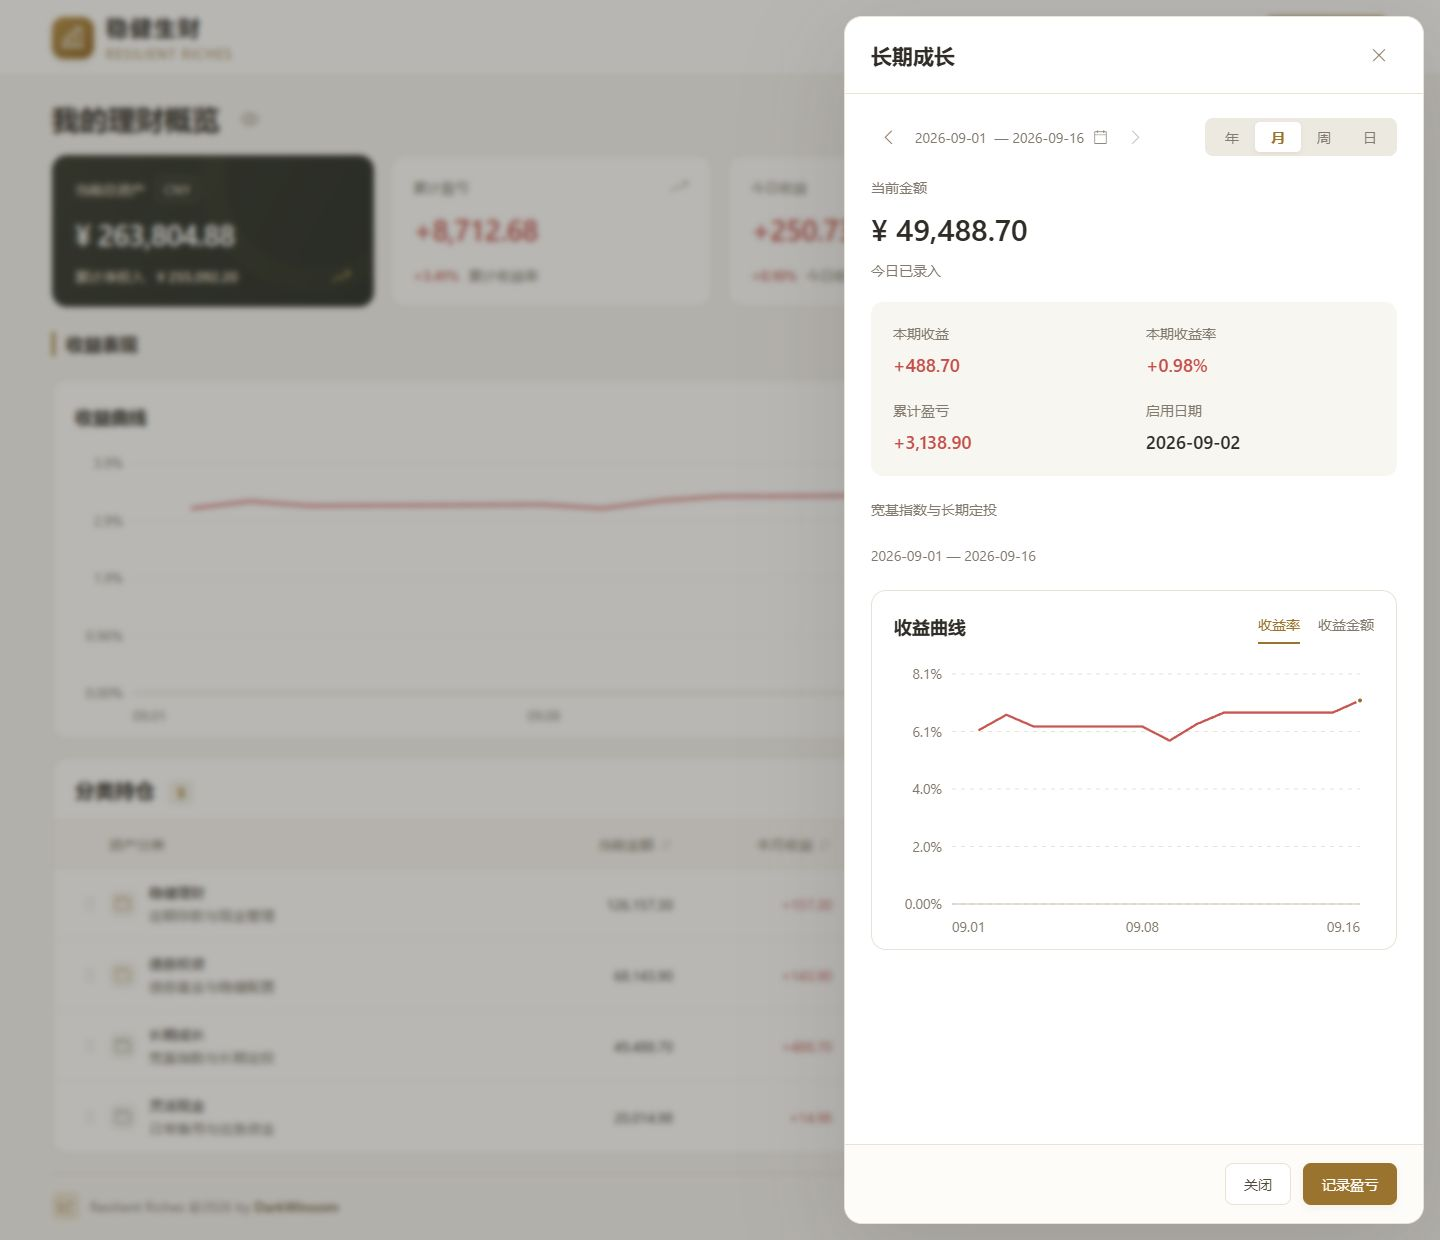
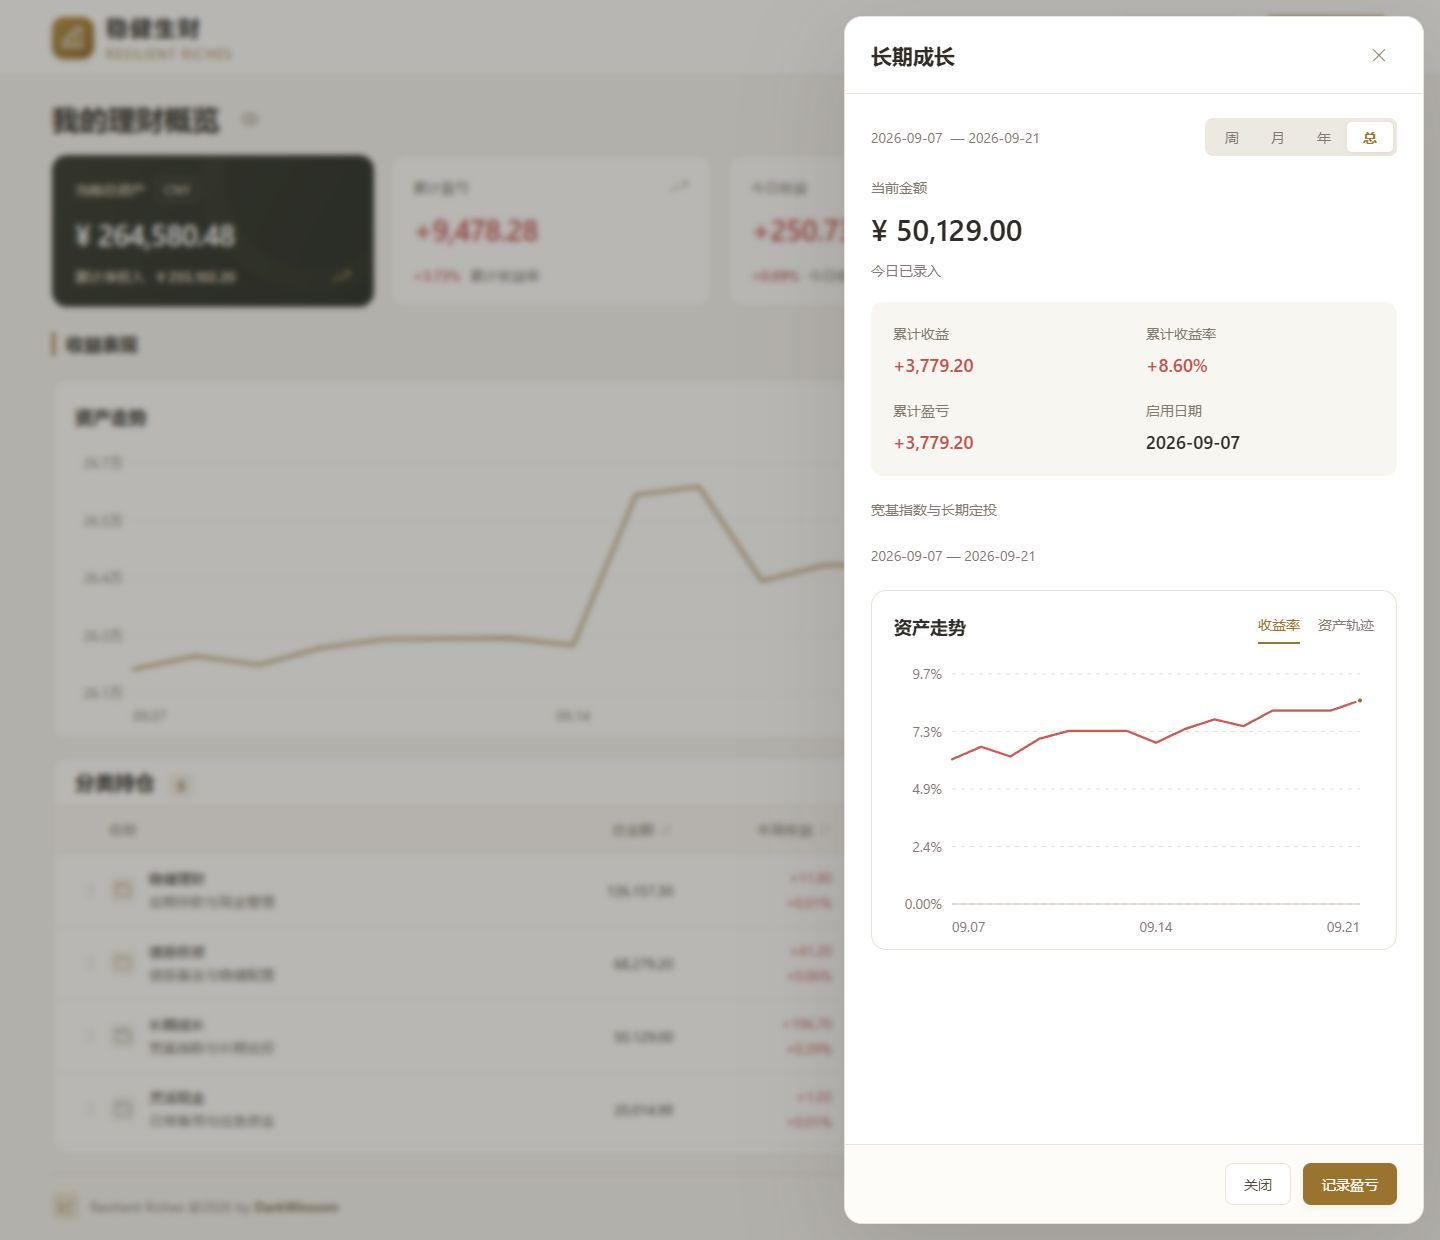
Refine recording flow and refresh v1.2 documentation

diff --git a/apps/web/src/composables/useEntryDraft.ts b/apps/web/src/composables/useEntryDraft.ts
@@ -18,7 +18,7 @@ export interface EntryDraft {
 export function useEntryDraft(
   today: string,
   initialId: string | null,
-  changed: (action: 'save' | 'delete') => void,
+  changed: (action: 'save' | 'delete', date: string, today: string) => void,
   initialDate = today,
   onlyCategoryId: string | null = null,
 ) {
@@ -206,7 +206,7 @@ export function useEntryDraft(
       touched.value = true;
       message.value = `已保存 ${ids.length} 个分类的记录`;
       success(message.value);
-      changed('save');
+      changed('save', result.date, result.today);
       await loadCalendar();
     } catch (failure) {
       error.value = errorMessage(failure);
@@ -227,7 +227,7 @@ export function useEntryDraft(
       touched.value = true;
       message.value = '记录已删除';
       success('记录已删除');
-      changed('delete');
+      changed('delete', result.date, result.today);
       await loadCalendar();
     } catch (failure) {
       error.value = errorMessage(failure);

diff --git a/apps/web/src/components/EntryDialog.vue b/apps/web/src/components/EntryDialog.vue
@@ -44,9 +44,9 @@ const {
 } = useEntryDraft(
   props.today,
   props.initialId,
-  (action) => {
+  (action, savedDate, serverToday) => {
     emit('changed');
-    if (action === 'save' && date.value === props.today) emit('close');
+    if (action === 'save' && savedDate === serverToday) emit('close');
   },
   props.initialDate,
   props.singleCategory ? props.initialId : null,
@@ -144,7 +144,11 @@ async function deleteRecord() {
         @month="changeMonth"
         @retry="loadCalendar"
       />
-      <section class="entry-content loading-region" :aria-busy="loading">
+      <section
+        class="entry-content loading-region"
+        :class="{ 'entry-content--single': singleCategory }"
+        :aria-busy="loading"
+      >
         <LoadingIndicator v-if="loading" label="正在读取记录" />
         <div class="section-heading">
           <h3>{{ date }}</h3>

diff --git a/apps/web/tests/bookkeeping.test.ts b/apps/web/tests/bookkeeping.test.ts
@@ -776,4 +776,15 @@ describe('bookkeeping UI with real ledger API', () => {
     expect(wrapper.emitted('close')).toHaveLength(1);
     expect(wrapper.text()).not.toContain('关闭记录窗口？');
   });
+  it('uses the server business date when deciding whether a saved window should close', async () => {
+    const category = await create();
+    wrapper = mount(EntryDialog, { props: { today, initialId: category.id }, global });
+    await settle();
+    businessDate = '2026-09-14';
+    await wrapper.get('#entry-balance').setValue('1100');
+    await button('保存当日记录').trigger('click');
+    await settle();
+    expect(wrapper.emitted('close')).toBeUndefined();
+    expect(button('保存当日记录').attributes('disabled')).toBeDefined();
+  });
 });

diff --git a/apps/web/src/components/dashboard/PeriodPicker.vue b/apps/web/src/components/dashboard/PeriodPicker.vue
@@ -51,7 +51,7 @@ function select(date: string) {
 }
 </script>
 <template>
-  <div class="period-controls">
+  <div class="period-controls" :class="{ 'period-controls--all': period === 'all' }">
     <div class="range-controls">
       <button
         v-if="period !== 'all'"

diff --git a/apps/web/src/interaction.css b/apps/web/src/interaction.css
@@ -292,3 +292,12 @@
     animation: none;
   }
 }
+
+.entry-content--single .entry-panel {
+  margin-top: 20px;
+}
+.return-plot:focus-visible {
+  outline: 2px solid var(--gold);
+  outline-offset: 3px;
+  border-radius: 6px;
+}

diff --git a/apps/web/src/dashboard.css b/apps/web/src/dashboard.css
@@ -940,3 +940,8 @@
   font-size: 14px;
   padding: 0 22px 6px;
 }
+
+.period-controls--all .range-label {
+  opacity: 1;
+  cursor: default;
+}

diff --git a/README.md b/README.md
@@ -1,12 +1,31 @@
 # 稳健生财
 
-个人理财记账小应用，可自定义分类进行全面整合统计，支持按天录入。数据均保存在本地，一键部署，简单易用
+个人理财记账小应用，可自定义分类进行全面整合统计，支持按天录入。数据均保存在本地，一键部署，简单易用。
 
-![首页：金额总览、收益曲线、资金分布与分类持仓](assets/screenshots/overview.jpg)
+![理财概览、资产走势与固定周月持仓指标](assets/screenshots/overview.jpg)
 
-## 部署
+## 使用
 
-推荐在本机、NAS 或家庭服务器上使用 Docker Desktop / Docker Engine + Compose：
+- **新增分类**：填写启用日期、初始资金和历史盈亏。“参与统计”默认开启；关闭后仍可单独记录与查看，但不进入概览和报表。
+- **记录盈亏**：填写当日余额、转入和转出，实时预览盈亏。悬停右上按钮可直接进入单分类；修改后才能保存，补录历史日期时保存后继续录入。
+- **查看表现**：周、月、年、总四种范围，默认周。切换收益率或资产轨迹；持仓表的周、月、累计指标固定，拖动左侧手柄可保存排序。
+
+![记录盈亏与累计收益预览](assets/screenshots/daily-entry.jpg)
+
+<details>
+<summary>分类详情与报表</summary>
+
+![分类详情与资产走势](assets/screenshots/category-detail.jpg)
+
+![收益报表](assets/screenshots/monthly-report.jpg)
+
+报表可导出PNG，并隐藏金额或分类。没有实际记录的期间不可分享。
+
+</details>
+
+## 部署与更新
+
+需要 Docker Desktop 或 Docker Engine + Compose：
 
 ```sh
 git clone https://github.com/DarkWinoom/resilient-riches.git
@@ -14,161 +33,32 @@ cd resilient-riches
 docker compose up -d --build
 ```
 
-打开 **[http://127.0.0.1:8888](http://127.0.0.1:8888)** 即可开始。端口被占用时，复制 `.env.example` 为 `.env`，修改 `RR_PORT` 后重新启动。
+访问 [http://127.0.0.1:8888](http://127.0.0.1:8888)。端口等配置见 [.env.example](.env.example)。应用没有登录，远程访问请自行限制入口权限。
 
-| 操作            | 命令                                           |
-| --------------- | ---------------------------------------------- |
-| 查看运行状态    | `docker compose ps`                            |
-| 查看日志        | `docker compose logs -f app`                   |
-| 停止 / 再次启动 | `docker compose stop` / `docker compose up -d` |
-
-应用没有登录和多用户功能，能访问页面的人都能读写账本。默认仅本机可访问；部署到公网时，请自行设置入口访问控制。
-
-<details>
-<summary>不用 Docker：Node.js 直接部署</summary>
-
-准备 Node.js **22.22.2 或更新的 Node 22** 与 pnpm **11.19.0**，进入项目目录后执行：
+更新前备份，并保留原目录、Compose项目名和数据卷：
 
 ```sh
-pnpm install --frozen-lockfile
-pnpm build
-pnpm start
-```
-
-未配置端口时访问 [8080](http://127.0.0.1:8080)；复制 `.env.example` 后默认使用 [8888](http://127.0.0.1:8888)。数据库默认在 `data/resilient-riches.sqlite`。启动时的 SQLite `ExperimentalWarning` 是 Node 22 的运行时提示。
-
-</details>
-
-## 开始记账
-
-| 第一步：新增分类                                                       | 第二步：记录盈亏                                         | 第三步：查看变化                                                     |
-| ---------------------------------------------------------------------- | -------------------------------------------------------- | -------------------------------------------------------------------- |
-| 在“分类持仓”点“新增分类”，用日历选择启用日期，填入初始金额和历史盈亏。 | 点“记录盈亏”，选择日期与分类，填写核对余额、买入、卖出。 | 保存后首页自动更新；行内“查看”展示分类收益曲线，“编辑”修改分类信息。 |
-
-![记录盈亏：日期日历、分类切换、资金核对与实时收益预览](assets/screenshots/daily-entry.jpg)
-
-- 日历 **无点＝未录入，单点＝部分分类已录，双点＝当天全部可录入分类已录**。这是记录状态，不是每天必须完成的任务。当前分类启用日之前的日期不可选，并会提示启用日期。
-- 记录顶部显示启用日期与累计盈亏金额；修改核对金额、买入或卖出时，累计盈亏和当日收益预览实时更新。切换日期时保留内容，以加载指示提示进度。
-- 未录入日期沿用上次余额；周末或没有变动时可以跳过。再次核对的余额差额计入本次日期。
-- 金额清空会归零，最多两位小数，`200.` 也会按 `200` 处理；历史盈亏可填负数。非法金额会立即提示并阻止输入。
-- 同一天可切换分类一起保存；有未保存内容时，换日期或关闭窗口会先确认。保存后自动关闭并提示成功；删除单条记录后窗口继续保留。
-
-分类之间转账时，分别填写来源分类的卖出、目标分类的买入。历史记录可通过日历补录或修改；修改会重新计算后续收益。
-
-<details>
-<summary>分类详情与管理</summary>
-
-![分类详情：期间指标与收益曲线](assets/screenshots/category-detail.jpg)
-
-分类持仓左侧可拖动排序，松开后自动保存。已清仓分类默认显示，可通过“隐藏已清仓”切换。
-
-分类详情独立切换年、月、周、日，默认查看年；年/月展示收益曲线，周/日展示每天的盈亏。曲线使用具体日期，并在启用日计入历史盈亏；初始资金是计算本金，不作为收益。
-
-在“编辑”中选择“一键清仓”，填写本轮最终盈亏并确认，当前金额即归零；本轮累计盈亏以填写的结算结果为准。重新激活会沿用名称、颜色与备注，重新设置启用日期和初始资金，历史盈亏默认填上次清仓金额且可修改；保存后以本次填写的金额作为累计起点，旧清仓结果不再额外累加。删除分类会同时删除该分类的全部轮次记录，操作前会显示影响范围并再次确认。
-
-</details>
-
-## 报表与分享
-
-首页四张卡片固定展示当前资产、累计盈亏、今日收益和本月收益；下面的日／周／月／年只切换期间曲线与分类收益。点击日期可通过日历查看其他期间。
-
-![收益月报：本期简评、收益率曲线与分类收益](assets/screenshots/monthly-report.jpg)
-
-在“收益报表”中点“分享收益”，选择隐私选项后保存 PNG，图片由本机浏览器生成。
-
-| 分享选项 | 图片内容                         |
-| -------- | -------------------------------- |
-| 默认     | 周期收益、收益率、曲线、分类收益 |
-| 隐藏金额 | 只展示收益率，不显示实际资金体量 |
-| 隐藏分类 | 只保留总览；可同时隐藏金额       |
-
-收益日报及其分享图片均不显示曲线；所选期间没有实际记录时，分享暂不可用。录入了零收益记录仍可分享。备注与简评不会出现在分享图中。
-
-## 更新与备份
-
-**Docker 将账本保存在独立的 `ledger-data` 命名卷中。更新镜像或重建容器会保留数据。** 请在原项目目录、使用相同的 Compose 项目名更新；不要执行 `docker compose down -v` 或删除该数据卷。
-
-先备份，再更新：
-
-```sh
-# 每次使用新的备份文件名
 docker compose exec app node apps/server/dist/backup.js data/backups/before-update.sqlite
 docker compose cp app:/app/data/backups/before-update.sqlite ./ledger-backup.sqlite
-
 git pull --ff-only
 docker compose up -d --build
 ```
 
-备份包含已提交的全部记录，服务运行中也可执行。请把备份另存到其他磁盘。v1.1.0 启动时会将旧版数据库升级到 schema 2。更新应保留同一个数据卷；如需回退 v1.0.0，请停止服务并恢复升级前备份。
+每次备份使用新文件名。**不要执行 `docker compose down -v` 或删除 `ledger-data` 卷。** 数据库自动升级；回退旧版本须停机恢复升级前备份。恢复命令为 `node apps/server/dist/restore.js <备份路径>`，先预览，确认后添加 `--confirm`。
 
 <details>
-<summary>恢复备份或迁移到另一台电脑</summary>
+<summary>Node.js 本机部署</summary>
 
-恢复会覆盖目标账本，先停止应用。以下示例使用当前目录中的 `ledger-backup.sqlite`：
-
-```sh
-docker compose stop app
-docker compose cp ./ledger-backup.sqlite app:/app/data/restore-input.sqlite
-docker compose run --rm --no-deps --user root app chown node:node /app/data/restore-input.sqlite
-docker compose run --rm --no-deps app node apps/server/dist/restore.js data/restore-input.sqlite
-# 核对预览中的来源、目标和记录数量后，再确认恢复
-docker compose run --rm --no-deps app node apps/server/dist/restore.js data/restore-input.sqlite --confirm
-docker compose up -d
-```
-
-迁移到新电脑时，先部署并启动一次，再执行以上步骤。恢复前会保留目标账本的原文件；无效备份会被拒绝。
-
-Node.js 直接部署使用 `pnpm db:backup backups/manual-1.sqlite` 备份；停止服务后执行 `pnpm db:restore backups/manual-1.sqlite` 预览，加 `--confirm` 确认恢复。Docker 数据卷与 Node.js 本机 `data` 目录不会自动共享。
+使用 Node 22.22.2+（22系列）、pnpm 11.19.0，依次运行 `pnpm install --frozen-lockfile`、`pnpm build`、`pnpm start`。默认访问 [8080](http://127.0.0.1:8080)，数据位于 `data/resilient-riches.sqlite`。
 
 </details>
 
-## 常见问题
+## 收益怎么算
 
-| 问题                     | 处理方式                                                             |
-| ------------------------ | -------------------------------------------------------------------- |
-| 页面打不开               | 检查 `docker compose ps`、日志和端口是否被占用。                     |
-| 换目录后账本为空         | 使用原目录 / 原 Compose 项目名，或通过备份恢复迁移；原数据卷仍在。   |
-| 收益率显示“—”            | 检查本金是否为零、历史本金是否有效；亏光后重新投入无法直接连续复利。 |
-| 提示数据已在其他页面更新 | 重新载入后再修改，避免覆盖其他页面保存的记录。                       |
-| 需要更多分类空间         | 持仓与资金分布可以滚动；点击金额或收益表头可以排序。                 |
-| 备份提示文件已存在       | 换一个文件名，不会覆盖已有备份。                                     |
+当日本金＝上次余额＋当日转入－当日转出；当日盈亏＝当日余额－当日本金。
 
-<details>
-<summary>收益计算口径</summary>
+收益率按**复利**计算：`∏(1 + 每日收益率) − 1`，不是简单相加。例如先涨10%、再跌10%，最终为−1%。修改历史记录会重算后续结果；未录入日沿用上次余额，不要求每天记账。
 
-```text
-当日收益 = 本次余额 − 上次余额 − 当日买入 + 当日卖出
-当日收益率 = 当日收益 ÷（上次余额 + 当日买入 − 当日卖出）
-期间复利收益率 = ∏（1 + 每日收益率）− 1
+初始资金是启用时的实际余额，已包含历史盈亏。历史本金按“初始资金−历史盈亏”还原；无法还原的历史部分保留盈亏金额，但不计入百分比，并在界面注明。历史金额不会使有效的后续收益率曲线变空。
 
-历史本金 = 初始金额 − 历史盈亏
-累计收益率 =（初始金额 ÷ 历史本金）×（1 + 启用后复利收益率）− 1
-```
-
-买入、卖出按日初净投入处理。例如初始金额 50 万、历史盈亏 −50 万，历史本金为 100 万，累计收益率从 **−50%** 起算；之后增长 10%，累计变为 **−45%**。
-
-组合历史因子按已启用分类的初始金额与历史本金合计计算；历史数据作为一次初始收益衔接，不推算历史每日走势。日／周／月／年期间摘要统计实际期间变动；收益曲线额外将历史盈亏记在启用日，周期不包含启用日时不会重复加入。收益率按每日资金基数计算并复利连乘，修改历史资金或记录后会重新计算受影响的日、周、月、年结果。
-
-金额以整数分、高精度十进制计算，单项金额上限 999,999,999,999.99 元。无有效本金或资金归零后重新投入时，会给出不可计算状态，不显示无效数字。
-
-</details>
-
-<details>
-<summary>自定义配置与开发</summary>
-
-复制 `.env.example` 为 `.env` 后可配置：
-
-| 变量                           | 用途                                                        |
-| ------------------------------ | ----------------------------------------------------------- |
-| `RR_PORT`                      | 主机访问端口，示例为 8888                                   |
-| `RR_BIND_ADDRESS`              | Docker 主机监听地址，默认 127.0.0.1                         |
-| `RR_HOST` / `RR_DATABASE_PATH` | Node.js 直接部署的监听地址 / 数据库路径                     |
-| `RR_PUBLIC_ORIGIN`             | HTTPS 反向代理的完整站点源，如 `https://ledger.example.com` |
-
-容器内部固定监听 8080。反向代理需保留原始 Host；不支持站点子路径部署。运行 `pnpm dev` 开发、`pnpm check` 执行完整检查。技术栈为 Vue 3、Fastify、SQLite；统一 Node 22。
-
-</details>
-
-## 开源许可
-
-[MIT License](LICENSE)
+金额以整数分计算，人民币记账，日期按北京时间。代码采用 [MIT License](LICENSE)。
